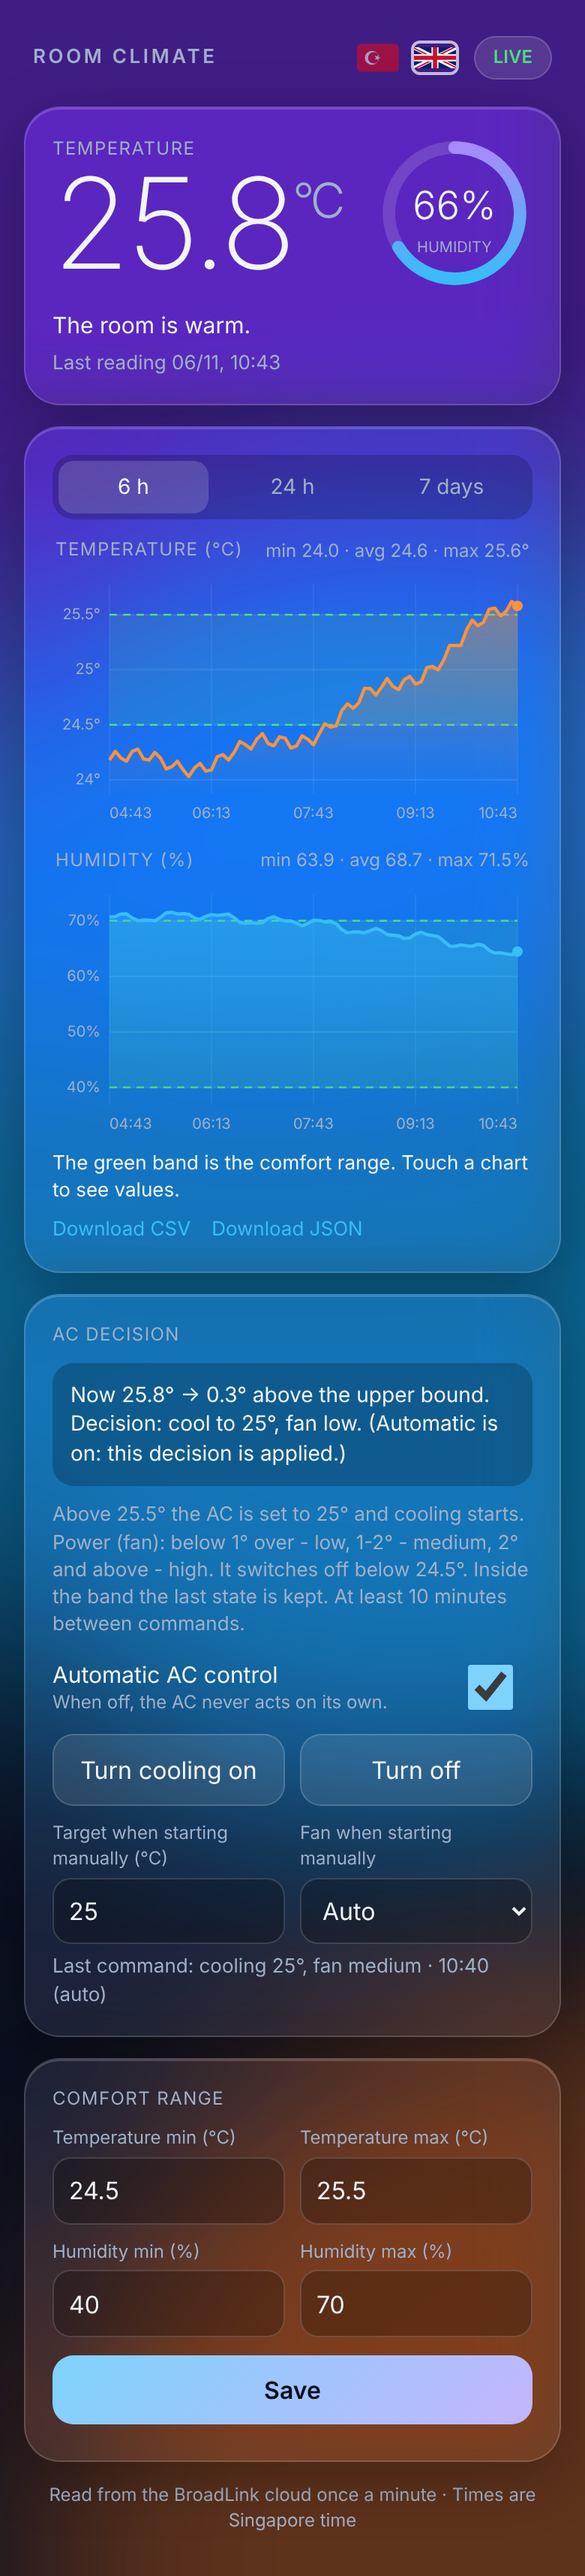
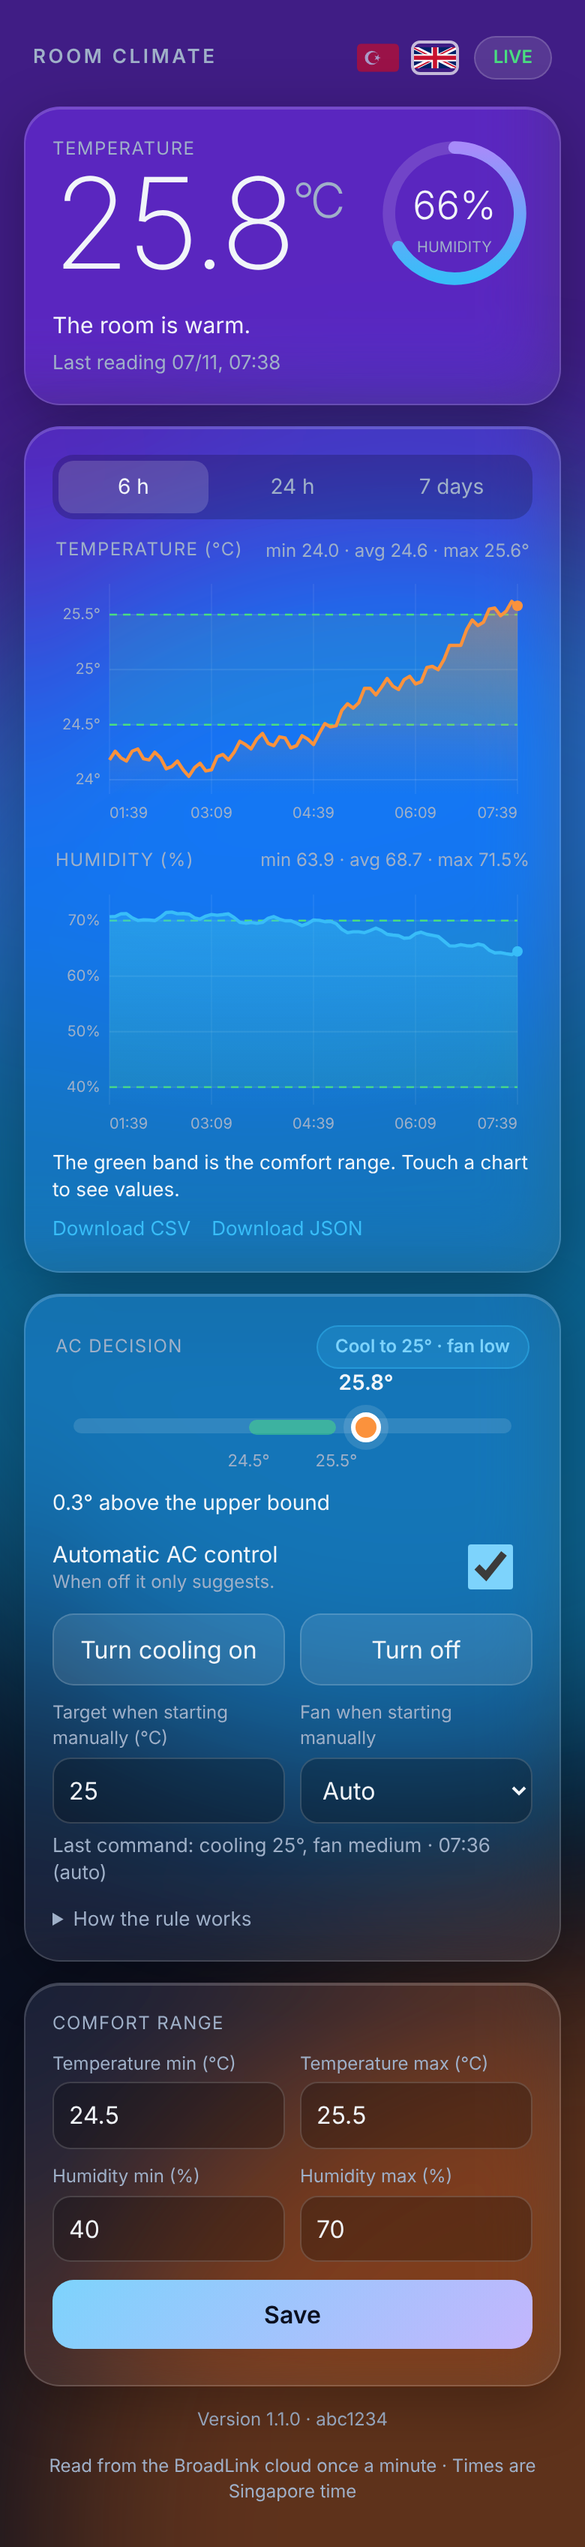
Redesign the AC decision card; refresh screenshot
Claude-Session: https://claude.ai/code/session_01PFTjAvHpDoi9qfTSWgVPRK

diff --git a/cloud/public/index.html b/cloud/public/index.html
@@ -54,7 +54,22 @@ button.save{margin-top:12px;width:100%;border:0;border-radius:14px;padding:12px;
 .ac{display:grid;grid-template-columns:1fr 1fr;gap:10px;margin-top:12px}
 .ac button{border:1px solid var(--line);background:rgba(255,255,255,.1);color:var(--text);border-radius:14px;padding:12px;font:inherit}
 .rule{font-size:13px;color:var(--muted);margin:10px 0 0}
-.decision{margin-top:10px;padding:12px;border-radius:14px;background:rgba(0,0,0,.22);font-size:14px}
+.chip{font-size:12px;font-weight:600;padding:5px 12px;border-radius:999px;border:1px solid transparent;white-space:nowrap}
+.chip.cool{background:rgba(56,189,248,.18);color:#7dd3fc;border-color:rgba(56,189,248,.4)}
+.chip.off{background:rgba(148,163,184,.18);color:#cbd5e1;border-color:rgba(148,163,184,.35)}
+.chip.hold{background:rgba(74,222,128,.15);color:#86efac;border-color:rgba(74,222,128,.35)}
+.chip.dim{opacity:.7;border-style:dashed}
+.gauge{margin:34px 14px 4px;position:relative}
+.gtrack{height:10px;border-radius:6px;background:rgba(255,255,255,.12);position:relative}
+.gband{position:absolute;top:0;bottom:0;border-radius:6px;background:rgba(74,222,128,.5)}
+.gdot{position:absolute;top:50%;width:20px;height:20px;border-radius:50%;border:3px solid #fff;background:var(--c,#4ade80);transform:translate(-50%,-50%);box-shadow:0 0 0 5px rgba(255,255,255,.12);transition:left .5s}
+.gdot b{position:absolute;bottom:26px;left:50%;transform:translateX(-50%);font-size:14px;font-weight:600;white-space:nowrap;color:var(--text)}
+.gticks{position:relative;height:16px;margin-top:10px;font-size:11px;color:var(--muted)}
+.gticks span{position:absolute;transform:translateX(-50%)}
+.why{margin-top:10px;font-size:14px}
+details.how{margin-top:12px;font-size:13px;color:var(--muted)}
+details.how summary{cursor:pointer}
+details.how .rule{margin:8px 0 0}
 .hr{display:flex;align-items:center;gap:10px}.langs{display:flex;gap:6px}.langs button{border:2px solid transparent;background:none;padding:0;border-radius:6px;line-height:0;opacity:.55;cursor:pointer}.langs button.on{opacity:1;border-color:rgba(255,255,255,.7)}.langs img{width:28px;height:19px;border-radius:3px;display:block}
 .foot{text-align:center;font-size:12px;color:var(--muted);margin:0}
 @media(prefers-reduced-motion:no-preference){.orbs i{animation:d 24s ease-in-out infinite alternate}.orbs i:nth-child(2){animation-duration:30s}.orbs i:nth-child(3){animation-duration:36s}@keyframes d{to{transform:translate(6vmax,4vmax)}}}
@@ -82,9 +97,9 @@ button.save{margin-top:12px;width:100%;border:0;border-radius:14px;padding:12px;
   <div class="links"><a id="csv" href="#" data-i18n="csv">CSV indir</a><a id="json" href="#" data-i18n="json">JSON indir</a></div>
 </section>
 <section class="glass">
-  <div class="label" data-i18n="decisionTitle">Klima kararı</div>
-  <div class="decision" id="decision">...</div>
-  <p class="rule" id="rule"></p>
+  <div class="row"><span class="label" data-i18n="decisionTitle">Klima kararı</span><span class="chip hold" id="chip">...</span></div>
+  <div class="gauge"><div class="gtrack"><div class="gband" id="gband"></div><div class="gdot" id="gdot"><b id="gval"></b></div></div><div class="gticks"><span id="gmin"></span><span id="gmax"></span></div></div>
+  <div class="why" id="why"></div>
   <label class="auto"><span><span data-i18n="auto">Otomatik klima kontrolü</span><small data-i18n="autoHint">Kapalıyken klima hiç kendiliğinden çalışmaz.</small></span><input id="auto" type="checkbox"></label>
   <div class="ac"><button id="acon" data-i18n="acon">Soğutmayı aç</button><button id="acoff" data-i18n="acoff">Kapat</button></div>
   <div class="cfg">
@@ -92,6 +107,7 @@ button.save{margin-top:12px;width:100%;border:0;border-radius:14px;padding:12px;
     <label><span data-i18n="fan">Elle açarken fan</span><select id="fan"><option value="auto" data-i18n="f_auto">Otomatik</option><option value="high" data-i18n="f_high">Yüksek</option><option value="med" data-i18n="f_med">Orta</option><option value="low" data-i18n="f_low">Düşük</option><option value="quiet" data-i18n="f_quiet">Sessiz</option></select></label>
   </div>
   <div class="meta" id="acstate"></div>
+  <details class="how"><summary data-i18n="how">Kural nasıl çalışır?</summary><p class="rule" id="rule"></p></details>
 </section>
 <section class="glass">
   <div class="label" data-i18n="comfort">Konfor aralığı</div>
@@ -134,7 +150,7 @@ function render() {
   $('badge').textContent = !sample ? t('noData') : fresh ? t('live') : t('stale');
   $('badge').className = 'badge ' + (!sample ? '' : fresh ? 'ok' : 'bad');
   $('rule').textContent = describe(cfg, lang);
-  if (!sample) { $('decision').textContent = t('noReading'); return; }
+  if (!sample) { $('chip').textContent = '—'; $('chip').className = 'chip off'; $('why').textContent = t('noReading'); return; }
   $('t').textContent = sample.temperature.toFixed(1);
   $('h').textContent = pct(Math.round(sample.humidity));
   $('arc').style.strokeDashoffset = 264 * (1 - Math.min(100, sample.humidity) / 100);
@@ -144,10 +160,19 @@ function render() {
   $('state').textContent = parts.length ? t('roomIs', parts.join(t('and'))) : t('inBand');
   $('meta').textContent = t('lastReading') + clock.format(sample.at) + (fresh ? '' : t('staleSuffix'));
   const p = plan(cfg, sample.temperature);
-  const temp = sample.temperature.toFixed(1);
-  const text = p.action === 'cool' ? t('decCool', temp, p.over.toFixed(1), p.target, fanName(p.fan))
-    : p.action === 'off' ? t('decOff', temp) : t('decHold', temp);
-  $('decision').textContent = text + (cfg.auto ? t('autoOn') : t('autoOff'));
+  const T = sample.temperature, temp = T.toFixed(1);
+  const lo = cfg.tMin - 2, hi = cfg.tMax + 2, pc = v => (v - lo) / (hi - lo) * 100;
+  $('gband').style.left = pc(cfg.tMin) + '%'; $('gband').style.width = pc(cfg.tMax) - pc(cfg.tMin) + '%';
+  $('gdot').style.left = Math.min(96, Math.max(4, pc(T))) + '%';
+  $('gdot').style.setProperty('--c', { cool: '#fb923c', off: '#38bdf8', hold: '#4ade80' }[p.action]);
+  $('gval').textContent = temp + '°';
+  $('gmin').style.left = pc(cfg.tMin) + '%'; $('gmin').textContent = cfg.tMin + '°';
+  $('gmax').style.left = pc(cfg.tMax) + '%'; $('gmax').textContent = cfg.tMax + '°';
+  $('chip').className = 'chip ' + p.action + (cfg.auto ? '' : ' dim');
+  $('chip').textContent = p.action === 'cool' ? t('chipCool', p.target, fanName(p.fan)) : p.action === 'off' ? t('chipOff') : t('chipHold');
+  const why = p.action === 'cool' ? t('whyOver', p.over.toFixed(1))
+    : p.action === 'off' ? t('whyUnder', (cfg.tMin - T).toFixed(1)) : t('whyIn');
+  $('why').textContent = why + (cfg.auto ? '' : t('suggestOnly'));
 }
 
 function nice(lo, hi, n) {

diff --git a/cloud/public/i18n.js b/cloud/public/i18n.js
@@ -6,7 +6,7 @@ export const I18N = {
     title: 'Oda iklimi', h1: 'ODANIN İKLİMİ', temp: 'Sıcaklık', hum: 'NEM', waiting: 'Ölçüm bekleniyor',
     r6: '6 saat', r24: '24 saat', r7: '7 gün', tempChart: 'Sıcaklık (°C)', humChart: 'Nem (%)',
     tip: 'Yeşil bant konfor aralığıdır. Grafiğe dokunarak değerleri gör.', csv: 'CSV indir', json: 'JSON indir',
-    decisionTitle: 'Klima kararı', auto: 'Otomatik klima kontrolü', autoHint: 'Kapalıyken klima hiç kendiliğinden çalışmaz.',
+    decisionTitle: 'Klima kararı', auto: 'Otomatik klima kontrolü', autoHint: 'Kapalıyken yalnızca öneri verir.',
     acon: 'Soğutmayı aç', acoff: 'Kapat', target: 'Elle açarken hedef (°C)', fan: 'Elle açarken fan',
     f_auto: 'Otomatik', f_high: 'Yüksek', f_med: 'Orta', f_low: 'Düşük', f_quiet: 'Sessiz',
     comfort: 'Konfor aralığı', tmin: 'Sıcaklık en düşük (°C)', tmax: 'Sıcaklık en yüksek (°C)', hmin: 'Nem en düşük (%)', hmax: 'Nem en yüksek (%)',
@@ -16,10 +16,9 @@ export const I18N = {
     cool: 'serin', hot: 'sıcak', dry: 'kuru', humid: 'nemli', and: ' ve ',
     roomIs: parts => 'Oda ' + parts + '.', inBand: 'Konfor aralığında.',
     lastReading: 'Son ölçüm ', staleSuffix: ' · veri eski',
-    decCool: (t, over, target, fan) => `Şu an ${t}° → üst sınırın ${over}° üstünde. Karar: soğutma ${target}°, fan ${fan}.`,
-    decOff: t => `Şu an ${t}° → alt sınırın altında. Karar: klimayı kapat.`,
-    decHold: t => `Şu an ${t}° → konfor aralığında. Karar: bekle, son durum korunur.`,
-    autoOn: ' (Otomatik açık: bu karar uygulanır.)', autoOff: ' (Otomatik kapalı: yalnızca öneri.)',
+    chipCool: (target, fan) => `Soğut ${target}° · fan ${fan}`, chipOff: 'Klimayı kapat', chipHold: 'Bekle',
+    whyOver: d => `Üst sınırın ${d}° üstünde`, whyUnder: d => `Alt sınırın ${d}° altında`, whyIn: 'Konfor aralığında',
+    suggestOnly: ' · yalnızca öneri', how: 'Kural nasıl çalışır?',
     stat: ['min', 'ort', 'maks'],
     cfgInvalid: 'Değerleri kontrol et: en düşük, en yüksekten küçük olmalı.', saved: 'Kaydedildi.', saveFail: 'Kaydedilemedi.',
     autoFail: 'Otomatik ayarı kaydedilemedi.', sending: 'Gönderiliyor...', targetRange: 'Hedef 18-30 arasında olmalı.', sendFail: 'Komut gönderilemedi.',
@@ -30,7 +29,7 @@ export const I18N = {
     title: 'Room climate', h1: 'ROOM CLIMATE', temp: 'Temperature', hum: 'HUMIDITY', waiting: 'Waiting for a reading',
     r6: '6 h', r24: '24 h', r7: '7 days', tempChart: 'Temperature (°C)', humChart: 'Humidity (%)',
     tip: 'The green band is the comfort range. Touch a chart to see values.', csv: 'Download CSV', json: 'Download JSON',
-    decisionTitle: 'AC decision', auto: 'Automatic AC control', autoHint: 'When off, the AC never acts on its own.',
+    decisionTitle: 'AC decision', auto: 'Automatic AC control', autoHint: 'When off it only suggests.',
     acon: 'Turn cooling on', acoff: 'Turn off', target: 'Target when starting manually (°C)', fan: 'Fan when starting manually',
     f_auto: 'Auto', f_high: 'High', f_med: 'Medium', f_low: 'Low', f_quiet: 'Quiet',
     comfort: 'Comfort range', tmin: 'Temperature min (°C)', tmax: 'Temperature max (°C)', hmin: 'Humidity min (%)', hmax: 'Humidity max (%)',
@@ -40,10 +39,9 @@ export const I18N = {
     cool: 'cool', hot: 'warm', dry: 'dry', humid: 'humid', and: ' and ',
     roomIs: parts => 'The room is ' + parts + '.', inBand: 'Within the comfort range.',
     lastReading: 'Last reading ', staleSuffix: ' · stale',
-    decCool: (t, over, target, fan) => `Now ${t}° → ${over}° above the upper bound. Decision: cool to ${target}°, fan ${fan}.`,
-    decOff: t => `Now ${t}° → below the lower bound. Decision: switch the AC off.`,
-    decHold: t => `Now ${t}° → within the comfort range. Decision: wait, the last state is kept.`,
-    autoOn: ' (Automatic is on: this decision is applied.)', autoOff: ' (Automatic is off: suggestion only.)',
+    chipCool: (target, fan) => `Cool to ${target}° · fan ${fan}`, chipOff: 'Switch off', chipHold: 'Hold',
+    whyOver: d => `${d}° above the upper bound`, whyUnder: d => `${d}° below the lower bound`, whyIn: 'Within the comfort range',
+    suggestOnly: ' · suggestion only', how: 'How the rule works',
     stat: ['min', 'avg', 'max'],
     cfgInvalid: 'Check the values: the minimum must be below the maximum.', saved: 'Saved.', saveFail: 'Could not save.',
     autoFail: 'Could not save the automatic setting.', sending: 'Sending...', targetRange: 'Target must be between 18 and 30.', sendFail: 'Could not send the command.',

diff --git a/README.md b/README.md
@@ -3,7 +3,7 @@
 Reads a BroadLink RM4 Mini + HTS2 temperature/humidity sensor through the BroadLink app cloud, stores it on Cloudflare (Worker + D1), serves a small bilingual (Turkish/English) dashboard, and can optionally drive an IR air conditioner to keep the room inside a comfort band. No always-on computer needed.
 
 <p align="center"><img src="docs/screenshot.png" alt="Dashboard with dummy data" width="320"></p>
-<p align="center"><sub>The dashboard (Turkish and English, switch with the flags) with dummy data: live reading, history charts with the comfort band, the automation's current decision and manual AC buttons.</sub></p>
+<p align="center"><sub>The dashboard (Turkish and English, switch with the flags) with dummy data: live reading, history charts with the comfort band, the automation's current decision on a temperature gauge, and manual AC buttons.</sub></p>
 
 - `cloud/` - Worker, dashboard (Turkish/English), D1 schema, IR code seed
 - `lib/broadlink-app-cloud.js` - client for the BroadLink app cloud (sensor read, IR send)
